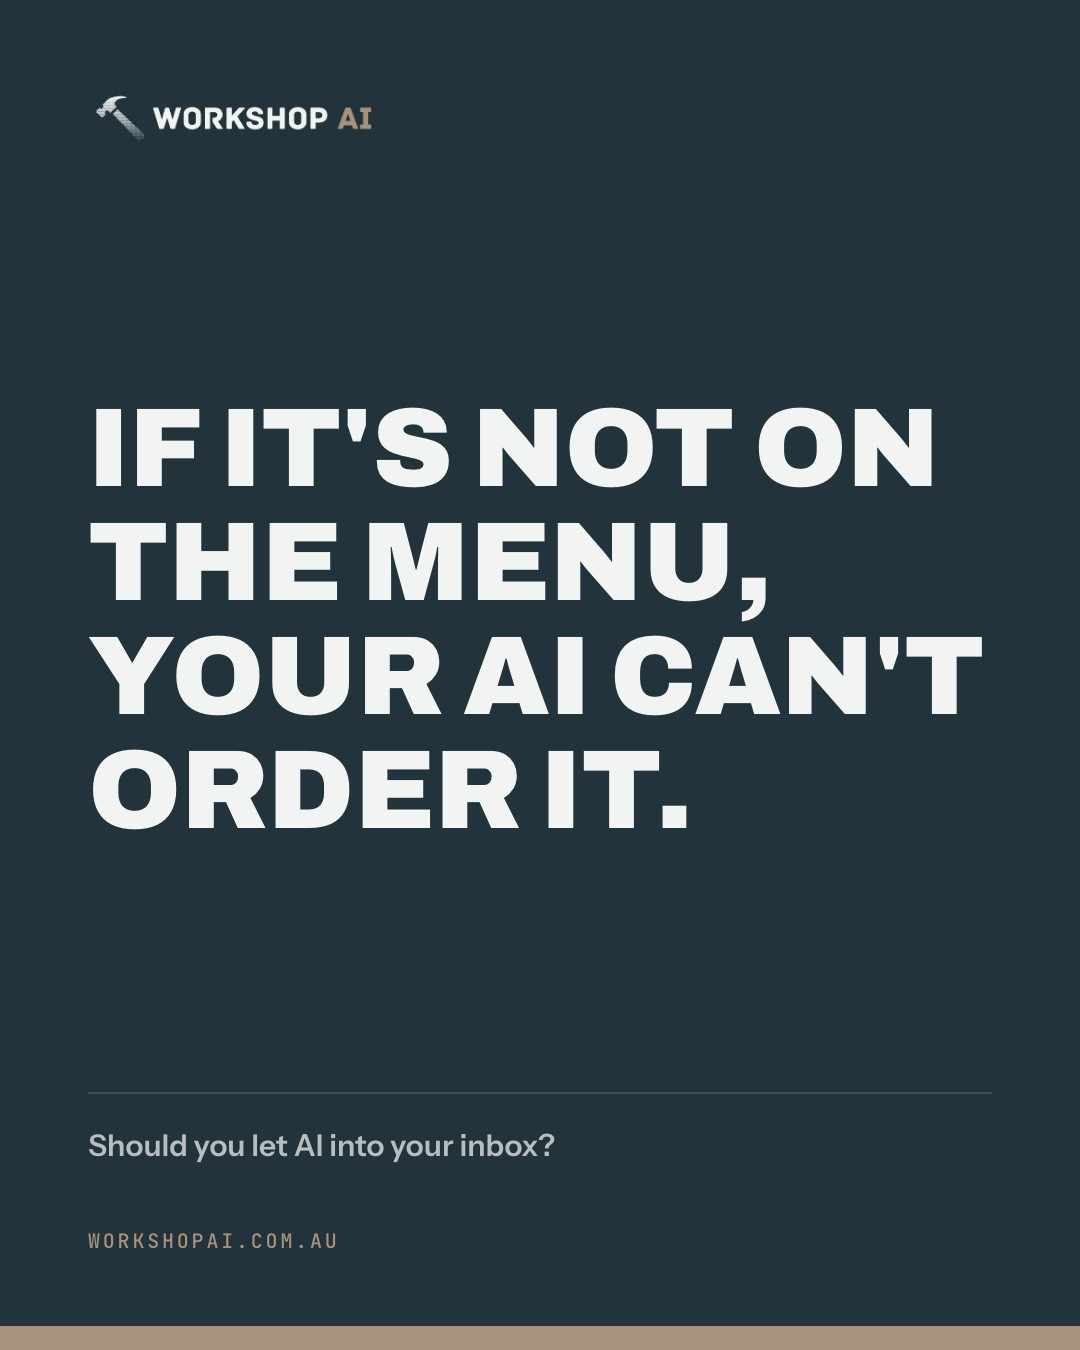
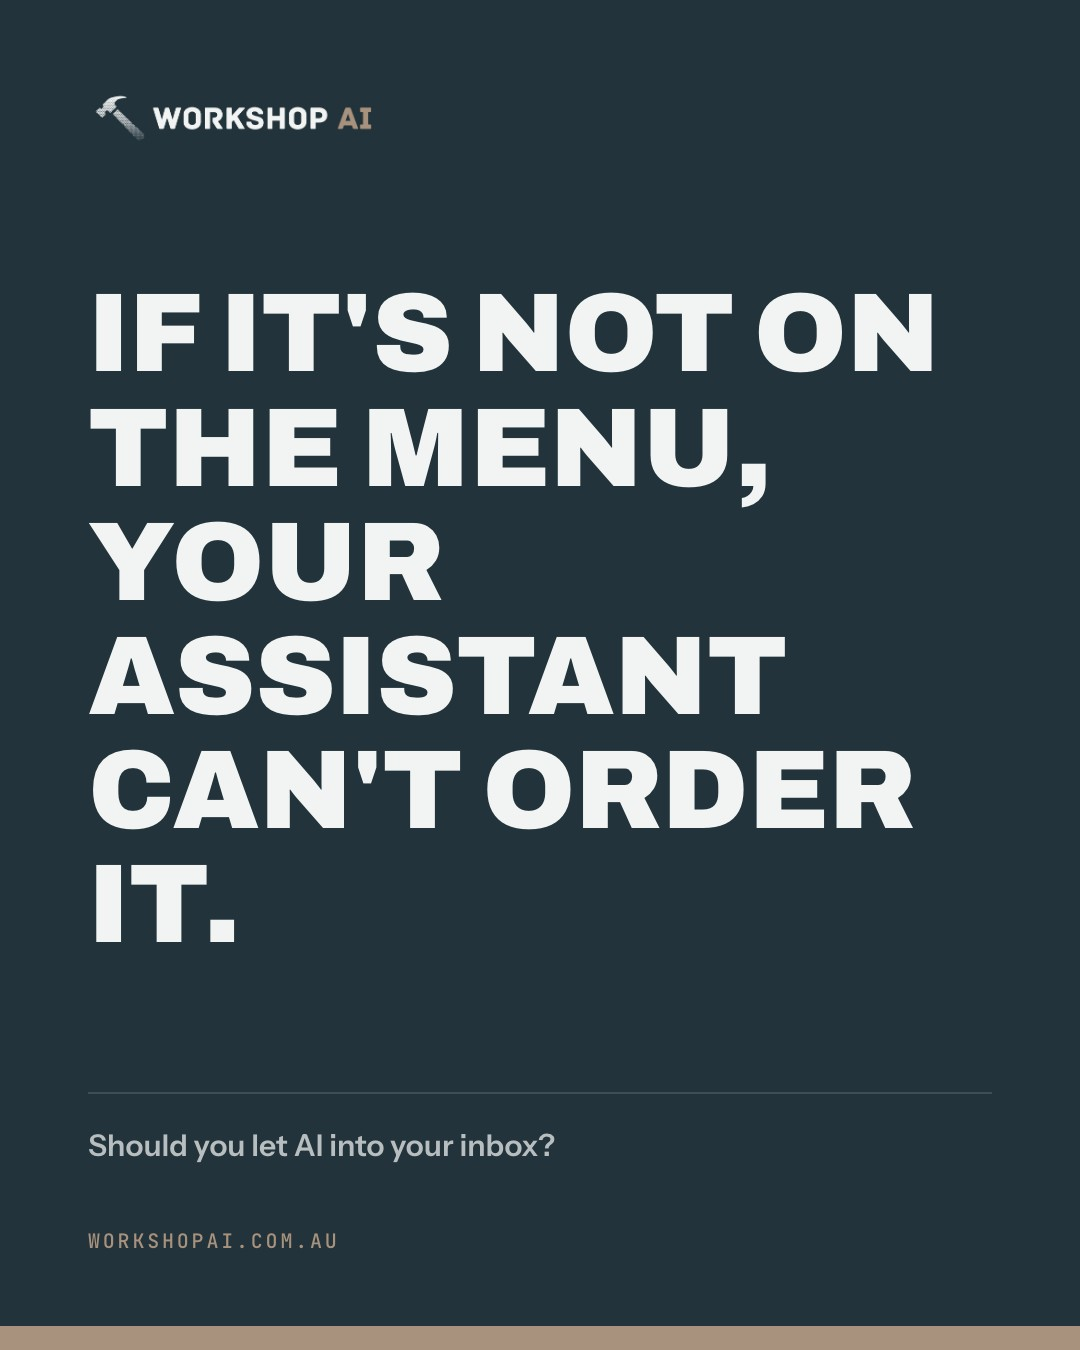
Blog: say 'AI assistant', not 'your AI' (connecting-ai-to-your-tools)

Changed region(s): [[0.0611, 0.2178, 0.9167, 0.7156]]

diff --git a/blog/connecting-ai-to-your-tools/index.html b/blog/connecting-ai-to-your-tools/index.html
@@ -496,29 +496,29 @@
 <main class="wrap post">
 <article class="post-body">
 <p>Connecting AI to your other tools opens up a whole new world of possibility... and risk.</p>
-<p>This article covers what it means, how to go about it safely, and what you stand to gain. If you have already connected a few tools to your AI, skip to the last section. It covers how to connect the ones that, until now, have been a bit tricky.</p>
+<p>This article covers what it means, how to go about it safely, and what you stand to gain. If you have already connected a few tools to your AI assistant (Claude, ChatGPT or Copilot), skip to the last section. It covers how to connect the ones that, until now, have been a bit tricky.</p>
 <h3>But hold on, that sounds crazy</h3>
 <p>Let&#x27;s get this out of the way first. Connecting AI to your existing tools is a scary idea.</p>
 <p>Giving Claude or ChatGPT access to your emails, your calendar, your job management system, or even your Xero account? That sounds bonkers. Think of all the ways it could go wrong. What if the AI went rogue and did something untoward with your bank details or your email? Eep.</p>
 <p>To be frank, that&#x27;s a fair reaction. So it&#x27;s worth going step by step: understanding the security behind it, and setting it up properly for your team.</p>
 <h3>How connections work</h3>
-<p>The most common way to connect an AI to another tool is called an MCP (Model Context Protocol). More and more software companies are rolling them out.</p>
+<p>The most common way to connect an AI assistant to another tool is called an MCP (Model Context Protocol). More and more software companies are rolling them out.</p>
 <p>I&#x27;ve heard a few metaphors for this, involving bouncers and hotel concierges. The one I think works best is a car at a drive-through.</p>
-<p>Your AI is the car, and the MCP is the drive-through. Every drive-through works the same way. There&#x27;s a menu, a speaker to place your order, and a window where they hand over the goods. The car never goes into the restaurant. It places the order and takes what comes out of the window.</p>
+<p>Your AI assistant is the car, and the MCP is the drive-through. Every drive-through works the same way. There&#x27;s a menu, a speaker to place your order, and a window where they hand over the goods. The car never goes into the restaurant. It places the order and takes what comes out of the window.</p>
 <figure>
   <img src="photo-01.jpg" alt="AI-generated illustration of a drive-through at dusk, seen from behind a grey car with Claude on the boot. The car has pulled up alongside the restaurant, and a smiling worker hands a paper bag through the pickup window to the driver. The building has a large Gmail logo on its roof. In the foreground, a speaker post reads Order here, and the menu board reads Gmail menu: read emails, sort and label, draft replies and send emails, with change signature crossed out." width="1376" height="768" loading="lazy" />
 </figure>
 <p><em>AI-generated illustration.</em></p>
 <p>The car can visit any number of drive-throughs and the format is always the same: McDonald&#x27;s, KFC, Guzman y Gomez. Or in business terms: Gmail, Outlook, Simpro, ServiceM8. What changes is the menu.</p>
 <p>And there is a menu. You can&#x27;t get absolutely everything you want, only what&#x27;s on it. (Although I did once order a Pounder meal from McDonald&#x27;s. Not worth it.)</p>
-<p>Take Gmail. You can have your AI read your emails, categorise them, draft replies and send them. But you can&#x27;t get it to update your email signature. It&#x27;s not on the menu.</p>
+<p>Take Gmail. You can have Claude or ChatGPT read your emails, categorise them, draft replies and send them. But you can&#x27;t get it to update your email signature. It&#x27;s not on the menu.</p>
 <h3>Context is king</h3>
 <p>AI can only help you as much as it understands your situation. Without connections, you give it that context yourself: you paraphrase, or paste in static bits of information that are out of date the moment you&#x27;ve copied them.</p>
 <p>Once it&#x27;s connected, it can look up the real data itself. It&#x27;s always current, and you no longer have to act as a porter, carrying information from one system to another.</p>
 <p>That means the answers you get are tailored to your reality. They aren&#x27;t generic. They&#x27;re based on up-to-date, real information.</p>
 <p>Where it gets really interesting is when you combine sources. With Xero and your job management system both connected, you can ask which jobs are complete but not yet invoiced, and which work is most profitable for you. Or it can read an email, check your calendar, find a time that suits for a meeting and draft a reply, ready for you to approve.</p>
 <h3>A thought partner</h3>
-<p>Giving your AI context changes how you prompt it. Instead of laying the groundwork every time, you can ask short, direct questions:</p>
+<p>Giving your assistant context changes how you prompt it. Instead of laying the groundwork every time, you can ask short, direct questions:</p>
 <ul>
   <li>Based on everything you can see, my goal this quarter is X. How should I go about it?</li>
   <li>I want gross profit of 36% across all my jobs. Which jobs are stopping me, and why?</li>
@@ -535,7 +535,7 @@
   <img src="shot-03.png" alt="Claude&#x27;s model picker, listing Fable 5.2, Sonnet 5.5, Haiku 5.5 and several Opus models." width="300" height="343" loading="lazy" />
 </figure>
 <p><em>Claude&#x27;s model picker.</em></p>
-<p>If you&#x27;re not sure where to start, connect as much as you&#x27;re comfortable with, then ask your AI how it can help you based on everything it can now see. You might be surprised.</p>
+<p>If you&#x27;re not sure where to start, connect as much as you&#x27;re comfortable with, then ask your assistant how it can help you based on everything it can now see. You might be surprised.</p>
 <h3>Start slowly</h3>
 <p>The best way to add connectors is slowly at first, gaining confidence as you go. That goes for the number of connectors, and for the permissions you give each one.</p>
 <p>If you&#x27;re the administrator for your business, you can add and restrict connectors for the whole team. In Claude and ChatGPT&#x27;s business plans, for example, you can let a connector read your job management system or your emails but block it from writing anything back. It can analyse what&#x27;s there, but it can&#x27;t create anything or make changes.</p>
@@ -543,23 +543,23 @@
   <img src="shot-04.png" alt="The Gmail connector&#x27;s permissions in Claude. Read-only tools such as get email message and search email threads are set to Always allow. Write and delete tools such as create draft email and create label are set to Needs approval." width="810" height="739" loading="lazy" />
 </figure>
 <p><em>Permissions for the Gmail connector in Claude. Here, reading is always allowed, and creating or changing things needs approval first. You can set each tool yourself, and an admin can set them for the whole team.</em></p>
-<p>As you gain confidence and trust, you can open things up for yourself or your team. It&#x27;s another good reason to be on a business plan for your AI (Team or Enterprise in Claude, Business or Enterprise in ChatGPT), so that everyone in the business is working the same way.</p>
+<p>As you gain confidence and trust, you can open things up for yourself or your team. It&#x27;s another good reason to be on a business plan (Team or Enterprise in Claude, Business or Enterprise in ChatGPT), so that everyone in the business is working the same way.</p>
 <h3>How to add connectors</h3>
-<p><strong>The common ones.</strong> Go to the connectors section of your AI tool and browse what&#x27;s available. That will get you started with most of them.</p>
+<p><strong>The common ones.</strong> Go to the connectors section of your assistant and browse what&#x27;s available. That will get you started with most of them.</p>
 <figure>
   <img src="shot-01.png" alt="Claude&#x27;s connectors settings, listing Gmail, Google Calendar, Google Docs, Google Drive and Google Sheets connectors by Google, GitHub by Anthropic, and Firecrawl as a custom connector with its web address." width="887" height="547" loading="lazy" />
 </figure>
 <p><em>Connectors in Claude&#x27;s settings. Most are made by the software company itself. Custom connectors show the web address you added.</em></p>
-<p><strong>Smaller, more specialised tools.</strong> If a tool isn&#x27;t in the list, it may still have an MCP you can add as a custom connector. To find out, search for &quot;MCP for [your tool&#x27;s name]&quot;. If one exists, it will give you a URL to paste into the custom connector section of your AI tool.</p>
+<p><strong>Smaller, more specialised tools.</strong> If a tool isn&#x27;t in the list, it may still have an MCP you can add as a custom connector. To find out, search for &quot;MCP for [your tool&#x27;s name]&quot;. If one exists, it will give you a URL to paste into the custom connector section of your assistant.</p>
 <figure>
   <img src="shot-02.png" alt="Claude&#x27;s Add custom connector window, with a box for the connector&#x27;s name and a box for the MCP server URL." width="520" height="406" loading="lazy" />
 </figure>
 <p><em>Adding a custom connector in Claude: give it a name and paste in the URL.</em></p>
 <p><strong>Tools with no MCP.</strong> Fear not, there may be other ways. Connector platforms such as <a href="https://www.synchub.io/" rel="noopener">SyncHub</a> or <a href="https://zapier.com/mcp" rel="noopener">Zapier</a> give you access to many more tools. Some have a free starting tier, but expect a monthly or usage-based fee. Search through them and you might find what you&#x27;re looking for.</p>
 <p><strong>Tools with an API.</strong> If the tool has an API, you can code your own MCP, or get us to build one for you.</p>
-<p><strong>Any website.</strong> I recently came across a tool called <a href="https://pomerado.ai/" rel="noopener">Pomerado</a> that turns any website into an MCP. That lets your AI work with the site in a structured, repeatable way, doing the same thing every time rather than guessing. That could be very useful for filling in forms or entering information into portals, one of the most common and cumbersome admin jobs going.</p>
+<p><strong>Any website.</strong> I recently came across a tool called <a href="https://pomerado.ai/" rel="noopener">Pomerado</a> that turns any website into an MCP. That lets your assistant work with the site in a structured, repeatable way, doing the same thing every time rather than guessing. That could be very useful for filling in forms or entering information into portals, one of the most common and cumbersome admin jobs going.</p>
 <h3>One place to work</h3>
-<p>As you connect more tools and give them more scope, something shifts. You start living in your AI tool, and have the AI go and action things in your other business systems. One interface, one place to focus your efforts.</p>
+<p>As you connect more tools and give them more scope, something shifts. You start living in your assistant, and have it go and action things in your other business systems. One interface, one place to focus your efforts.</p>
 <p>That&#x27;s why some software companies are trying to limit connectors, to keep you living inside their tools so they stay relevant.</p>
 <p>Salesforce has already done it, <a href="https://www.itnews.com.au/news/salesforce-blocks-ai-rivals-from-using-slack-data-617788" rel="noopener">restricting how other AI tools can use Slack data</a> in 2025.</p>
 <p>I can understand why they would. But it might be futile.</p>

diff --git a/_src/blog/connecting-ai-to-your-tools.md b/_src/blog/connecting-ai-to-your-tools.md
@@ -13,7 +13,7 @@ client_permission: na
 
 Connecting AI to your other tools opens up a whole new world of possibility... and risk.
 
-This article covers what it means, how to go about it safely, and what you stand to gain. If you have already connected a few tools to your AI, skip to the last section. It covers how to connect the ones that, until now, have been a bit tricky.
+This article covers what it means, how to go about it safely, and what you stand to gain. If you have already connected a few tools to your AI assistant (Claude, ChatGPT or Copilot), skip to the last section. It covers how to connect the ones that, until now, have been a bit tricky.
 
 ### But hold on, that sounds crazy
 
@@ -25,11 +25,11 @@ To be frank, that's a fair reaction. So it's worth going step by step: understan
 
 ### How connections work
 
-The most common way to connect an AI to another tool is called an MCP (Model Context Protocol). More and more software companies are rolling them out.
+The most common way to connect an AI assistant to another tool is called an MCP (Model Context Protocol). More and more software companies are rolling them out.
 
 I've heard a few metaphors for this, involving bouncers and hotel concierges. The one I think works best is a car at a drive-through.
 
-Your AI is the car, and the MCP is the drive-through. Every drive-through works the same way. There's a menu, a speaker to place your order, and a window where they hand over the goods. The car never goes into the restaurant. It places the order and takes what comes out of the window.
+Your AI assistant is the car, and the MCP is the drive-through. Every drive-through works the same way. There's a menu, a speaker to place your order, and a window where they hand over the goods. The car never goes into the restaurant. It places the order and takes what comes out of the window.
 
 ![AI-generated illustration of a drive-through at dusk, seen from behind a grey car with Claude on the boot. The car has pulled up alongside the restaurant, and a smiling worker hands a paper bag through the pickup window to the driver. The building has a large Gmail logo on its roof. In the foreground, a speaker post reads Order here, and the menu board reads Gmail menu: read emails, sort and label, draft replies and send emails, with change signature crossed out.](assets/photo-01.jpg)
 
@@ -39,7 +39,7 @@ The car can visit any number of drive-throughs and the format is always the same
 
 And there is a menu. You can't get absolutely everything you want, only what's on it. (Although I did once order a Pounder meal from McDonald's. Not worth it.)
 
-Take Gmail. You can have your AI read your emails, categorise them, draft replies and send them. But you can't get it to update your email signature. It's not on the menu.
+Take Gmail. You can have Claude or ChatGPT read your emails, categorise them, draft replies and send them. But you can't get it to update your email signature. It's not on the menu.
 
 ### Context is king
 
@@ -53,7 +53,7 @@ Where it gets really interesting is when you combine sources. With Xero and your
 
 ### A thought partner
 
-Giving your AI context changes how you prompt it. Instead of laying the groundwork every time, you can ask short, direct questions:
+Giving your assistant context changes how you prompt it. Instead of laying the groundwork every time, you can ask short, direct questions:
 
 - Based on everything you can see, my goal this quarter is X. How should I go about it?
 - I want gross profit of 36% across all my jobs. Which jobs are stopping me, and why?
@@ -71,7 +71,7 @@ For questions like these, it's worth switching to one of the higher models:
 
 *Claude's model picker.*
 
-If you're not sure where to start, connect as much as you're comfortable with, then ask your AI how it can help you based on everything it can now see. You might be surprised.
+If you're not sure where to start, connect as much as you're comfortable with, then ask your assistant how it can help you based on everything it can now see. You might be surprised.
 
 ### Start slowly
 
@@ -83,17 +83,17 @@ If you're the administrator for your business, you can add and restrict connecto
 
 *Permissions for the Gmail connector in Claude. Here, reading is always allowed, and creating or changing things needs approval first. You can set each tool yourself, and an admin can set them for the whole team.*
 
-As you gain confidence and trust, you can open things up for yourself or your team. It's another good reason to be on a business plan for your AI (Team or Enterprise in Claude, Business or Enterprise in ChatGPT), so that everyone in the business is working the same way.
+As you gain confidence and trust, you can open things up for yourself or your team. It's another good reason to be on a business plan (Team or Enterprise in Claude, Business or Enterprise in ChatGPT), so that everyone in the business is working the same way.
 
 ### How to add connectors
 
-**The common ones.** Go to the connectors section of your AI tool and browse what's available. That will get you started with most of them.
+**The common ones.** Go to the connectors section of your assistant and browse what's available. That will get you started with most of them.
 
 ![Claude's connectors settings, listing Gmail, Google Calendar, Google Docs, Google Drive and Google Sheets connectors by Google, GitHub by Anthropic, and Firecrawl as a custom connector with its web address.](assets/shot-01.png)
 
 *Connectors in Claude's settings. Most are made by the software company itself. Custom connectors show the web address you added.*
 
-**Smaller, more specialised tools.** If a tool isn't in the list, it may still have an MCP you can add as a custom connector. To find out, search for "MCP for [your tool's name]". If one exists, it will give you a URL to paste into the custom connector section of your AI tool.
+**Smaller, more specialised tools.** If a tool isn't in the list, it may still have an MCP you can add as a custom connector. To find out, search for "MCP for [your tool's name]". If one exists, it will give you a URL to paste into the custom connector section of your assistant.
 
 ![Claude's Add custom connector window, with a box for the connector's name and a box for the MCP server URL.](assets/shot-02.png)
 
@@ -103,11 +103,11 @@ As you gain confidence and trust, you can open things up for yourself or your te
 
 **Tools with an API.** If the tool has an API, you can code your own MCP, or get us to build one for you.
 
-**Any website.** I recently came across a tool called [Pomerado](https://pomerado.ai/) that turns any website into an MCP. That lets your AI work with the site in a structured, repeatable way, doing the same thing every time rather than guessing. That could be very useful for filling in forms or entering information into portals, one of the most common and cumbersome admin jobs going.
+**Any website.** I recently came across a tool called [Pomerado](https://pomerado.ai/) that turns any website into an MCP. That lets your assistant work with the site in a structured, repeatable way, doing the same thing every time rather than guessing. That could be very useful for filling in forms or entering information into portals, one of the most common and cumbersome admin jobs going.
 
 ### One place to work
 
-As you connect more tools and give them more scope, something shifts. You start living in your AI tool, and have the AI go and action things in your other business systems. One interface, one place to focus your efforts.
+As you connect more tools and give them more scope, something shifts. You start living in your assistant, and have it go and action things in your other business systems. One interface, one place to focus your efforts.
 
 That's why some software companies are trying to limit connectors, to keep you living inside their tools so they stay relevant.
 
